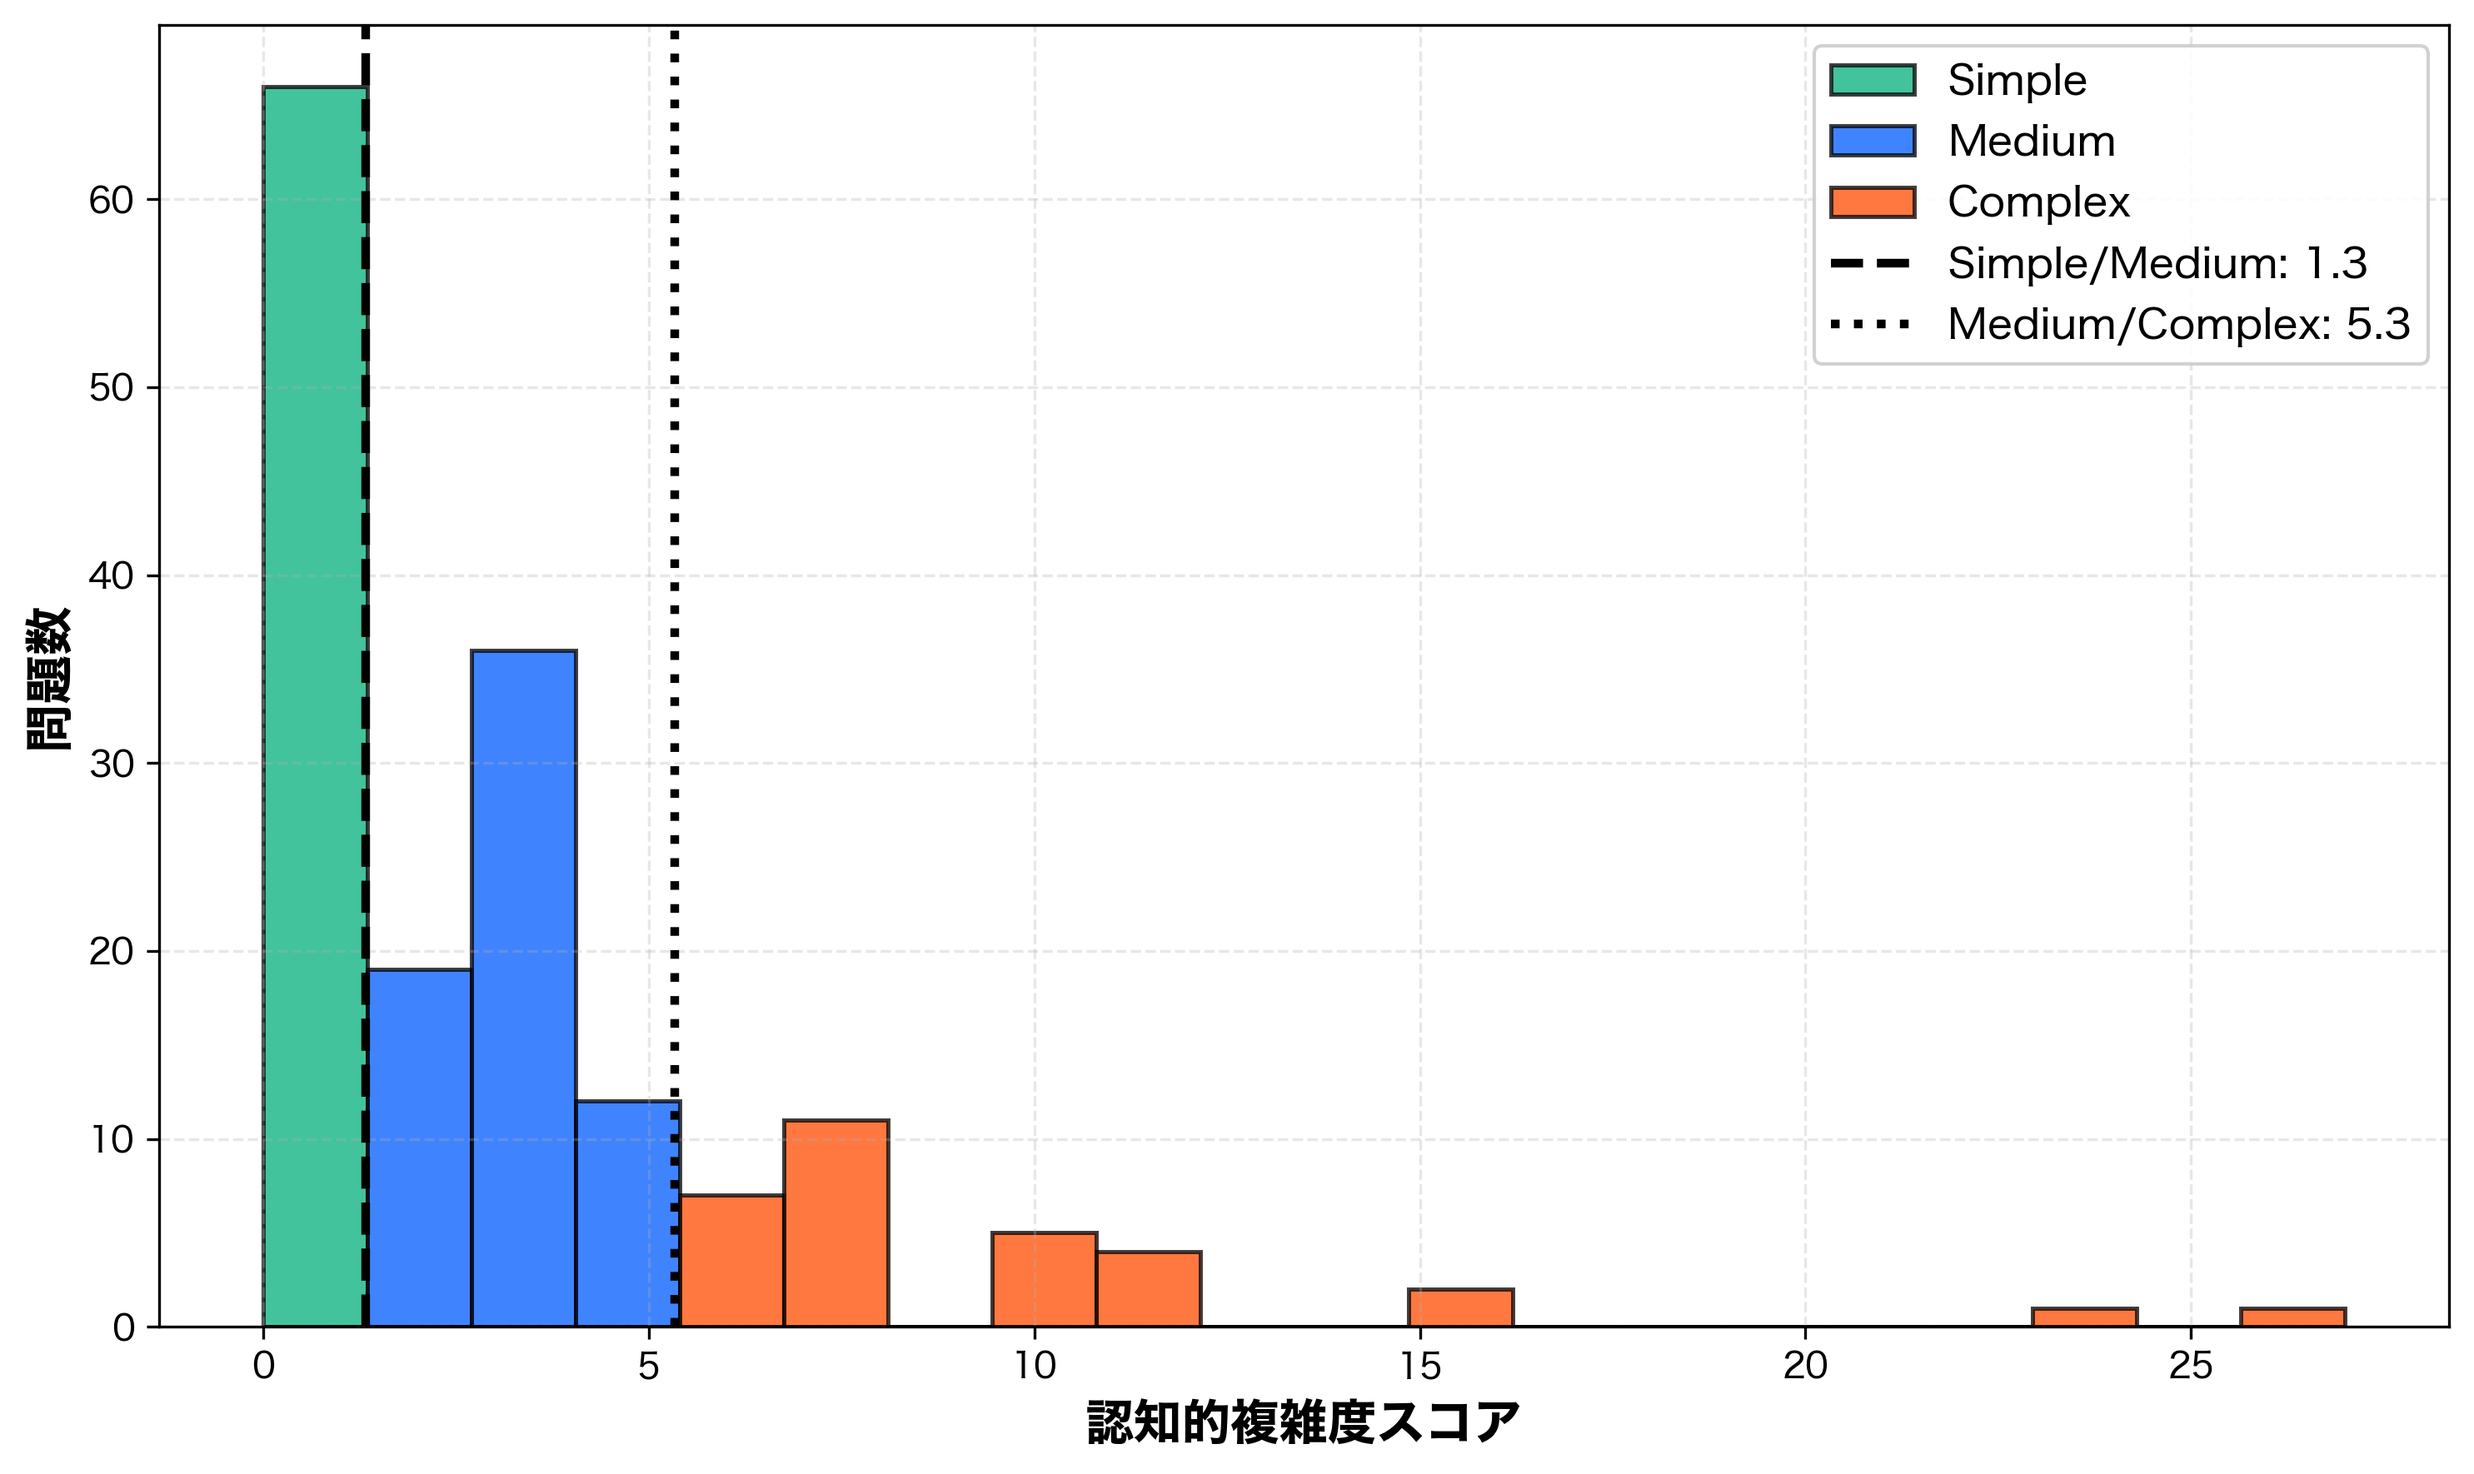
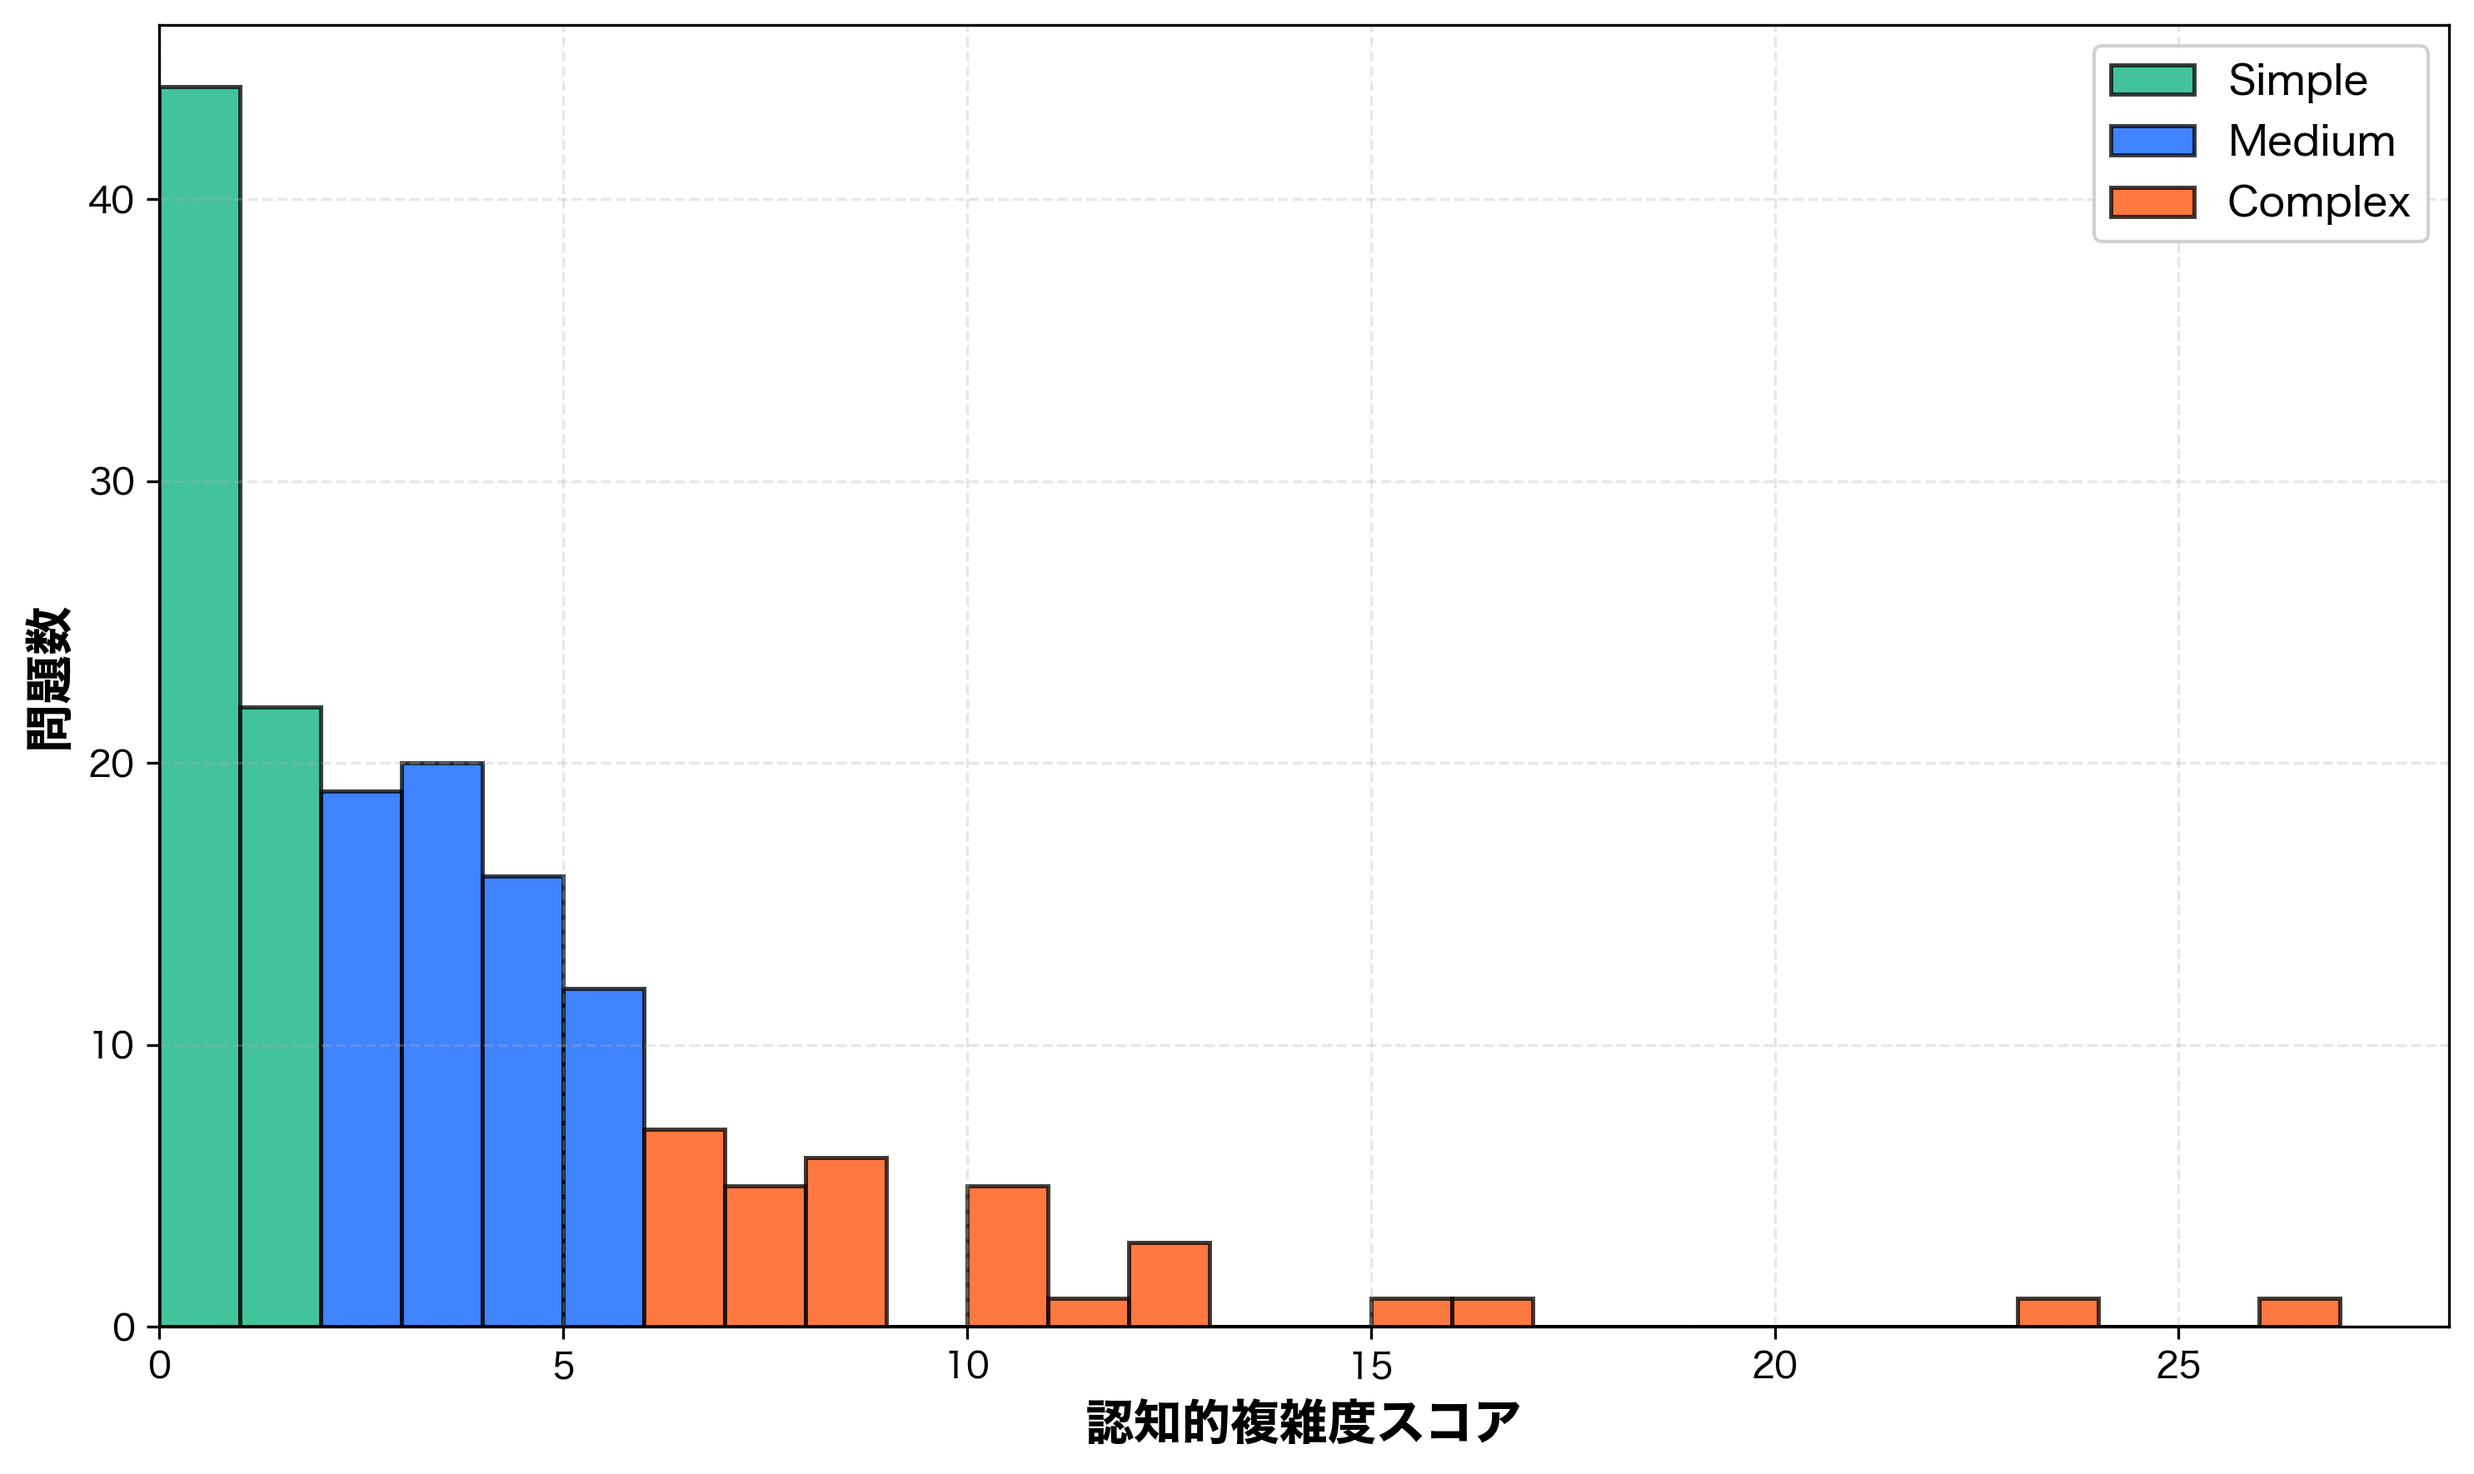
update:

diff --git a/problem_classification/show_problem_classification.py b/problem_classification/show_problem_classification.py
@@ -227,9 +227,10 @@ def main():
     complex_scores = [classifications[pid]['complexity_score'] 
                      for pid in problem_ids if classifications[pid]['complexity_level'] == 'complex']
     
-    # Define bins for histogram
-    bins = 20
-    bin_range = (0, max(complexity_scores) + 1)
+    # Define bins for histogram - 整数スコアに合わせて1間隔のビンを使用
+    max_score = int(max(complexity_scores))
+    bins = np.arange(0, max_score + 2, 1)  # 0, 1, 2, ..., max_score+1 のエッジ
+    bin_range = (0, max_score + 1)
     
     # Plot histograms for each level with different colors
     ax1.hist(simple_scores, bins=bins, range=bin_range, color=COLOR_SIMPLE, 
@@ -239,18 +240,11 @@ def main():
     ax1.hist(complex_scores, bins=bins, range=bin_range, color=COLOR_COMPLEX, 
              alpha=0.75, edgecolor='black', linewidth=1.2, label='Complex')
     
-    # Add threshold lines with different line styles (both black)
-    if classifier.complexity_thresholds:
-        low_t, high_t = classifier.complexity_thresholds
-        ax1.axvline(low_t, color='black', linestyle='--', linewidth=2.5, 
-                   label=f'Simple/Medium: {low_t:.1f}')
-        ax1.axvline(high_t, color='black', linestyle=':', linewidth=2.5, 
-                   label=f'Medium/Complex: {high_t:.1f}')
-    
     ax1.set_xlabel('認知的複雑度スコア', fontsize=14, fontweight='bold')
     ax1.set_ylabel('問題数', fontsize=14, fontweight='bold')
     ax1.legend(fontsize=12, framealpha=0.9, loc='upper right')
     ax1.grid(True, alpha=0.3, linestyle='--')
+    ax1.set_xlim(left=0)  # X軸を0から開始
     
     plt.tight_layout()
     plt.savefig('problem_classification/complexity_distribution.png', dpi=300, bbox_inches='tight')
